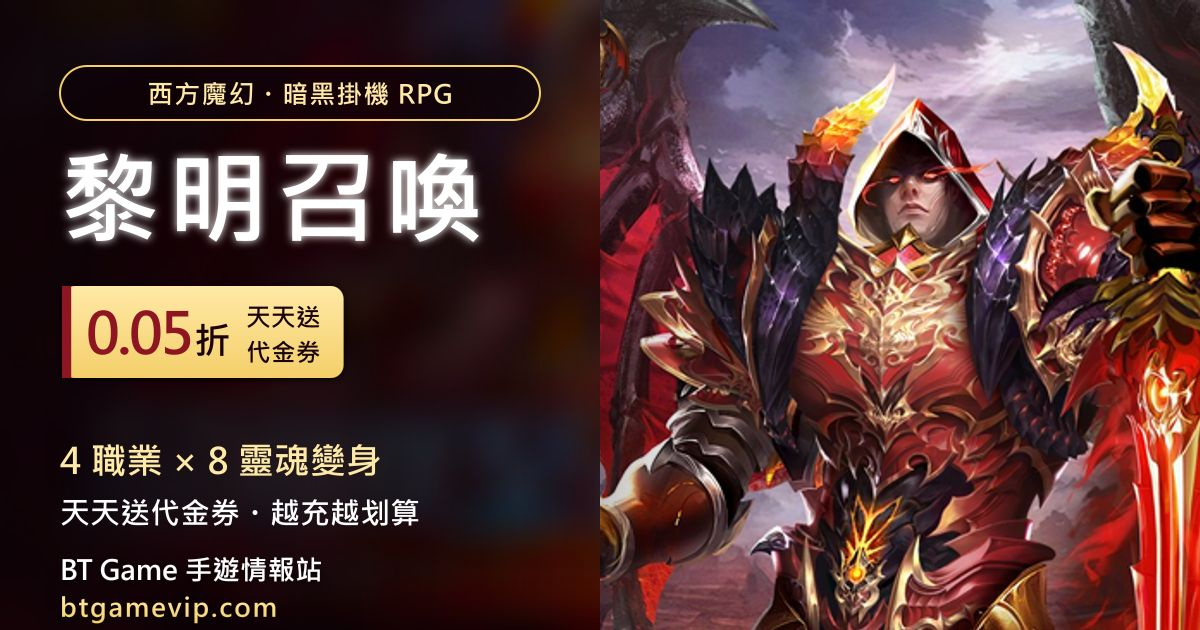
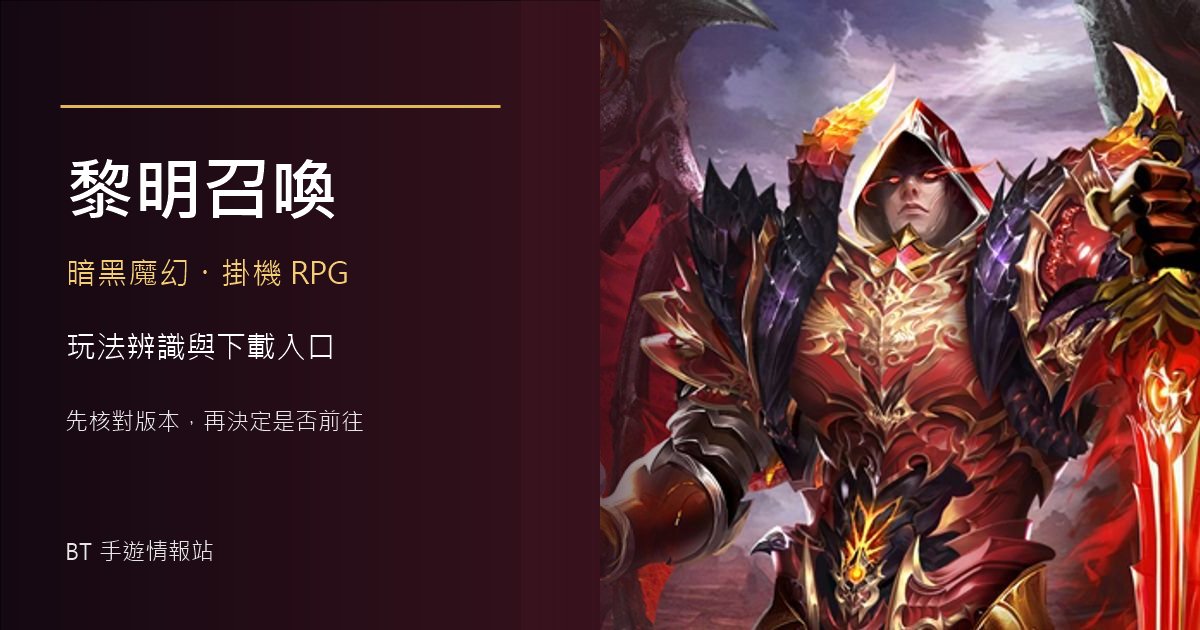
fix(game): clarify Liming Zhaohuan page

diff --git a/games/liming-zhaohuan/index.html b/games/liming-zhaohuan/index.html
@@ -4,9 +4,9 @@
   <meta charset="UTF-8">
   <meta name="viewport" content="width=device-width, initial-scale=1.0">
 
-  <title>黎明召喚儲值下載｜0.05 折天天送抵用券・4 職業 8 靈魂變身暗黑掛機 RPG｜BT 手遊情報站｜台灣手遊儲值攻略與下載入口</title>
-  <meta name="description" content="《黎明召喚》西方魔幻暗黑掛機 RPG：4 大職業 ×8 種靈魂變身，3D 引擎爆燃打擊感；全服儲值 0.05 折並天天回饋 100% 抵用券，越充越划算。BT Game 專屬渠道下載更省。">
-  <meta name="keywords" content="黎明召喚儲值, 黎明召喚下載, 黎明召喚0.05折, 黎明召喚抵用券, 黎明召喚折扣, 黎明召喚職業, 黎明召喚靈魂變身, 黎明召喚掛機RPG">
+  <title>黎明召喚下載與玩法辨識｜暗黑魔幻掛機 RPG｜BT 手遊情報站｜台灣手遊儲值攻略與下載入口</title>
+  <meta name="description" content="別先被同名遊戲帶錯路：這頁整理暗黑魔幻掛機 RPG《黎明召喚》的玩法定位、版本核對方法、下載入口與儲值前安全檢查；先確認是你要找的版本，再決定是否前往。">
+  <meta name="keywords" content="黎明召喚下載, 黎明召喚手遊, 黎明召喚玩法, 黎明召喚掛機RPG">
   <meta name="robots" content="index,follow,max-image-preview:large">
   <link rel="canonical" href="https://btgamevip.com/games/liming-zhaohuan/">
 
@@ -16,15 +16,15 @@
   <meta property="og:type" content="website">
   <meta property="og:site_name" content="BT 手遊情報站｜台灣手遊儲值攻略與下載入口">
   <meta property="og:locale" content="zh_TW">
-  <meta property="og:title" content="黎明召喚儲值下載｜0.05 折天天送抵用券・4 職業 8 靈魂變身暗黑掛機 RPG">
-  <meta property="og:description" content="西方魔幻暗黑掛機 RPG，4 職業 ×8 靈魂變身，全服儲值 0.05 折並天天回饋 100% 抵用券。BT Game 專屬渠道下載更省。">
+  <meta property="og:title" content="黎明召喚下載與玩法辨識｜暗黑魔幻掛機 RPG">
+  <meta property="og:description" content="先分辨同名遊戲，再核對暗黑魔幻掛機 RPG《黎明召喚》的玩法與下載入口。">
   <meta property="og:url" content="https://btgamevip.com/games/liming-zhaohuan/">
   <meta property="og:image" content="https://btgamevip.com/assets/img/games/liming-zhaohuan/liming-zhaohuan-og-1200x630.png">
   <meta property="og:image:width" content="1200">
   <meta property="og:image:height" content="630">
   <meta name="twitter:card" content="summary_large_image">
-  <meta name="twitter:title" content="黎明召喚儲值下載｜0.05 折天天送抵用券暗黑掛機 RPG">
-  <meta name="twitter:description" content="4 職業 8 靈魂變身，全服 0.05 折天天送 100% 抵用券，越充越划算。">
+  <meta name="twitter:title" content="黎明召喚下載與玩法辨識｜暗黑魔幻掛機 RPG">
+  <meta name="twitter:description" content="先分辨同名遊戲，再核對《黎明召喚》的玩法、版本與下載入口。">
   <meta name="twitter:image" content="https://btgamevip.com/assets/img/games/liming-zhaohuan/liming-zhaohuan-og-1200x630.png">
 
   <link rel="preconnect" href="https://qd.u2game99.com" crossorigin>
@@ -45,20 +45,16 @@
   })();
   </script>
 
-  <!-- STRUCTURED DATA -->
   <script type="application/ld+json">
   {
     "@context": "https://schema.org",
     "@type": ["VideoGame", "SoftwareApplication"],
-    "name": "黎明召喚（0.05 折天天送抵用券）",
+    "name": "黎明召喚",
     "url": "https://btgamevip.com/games/liming-zhaohuan/",
     "inLanguage": "zh-Hant",
-    "description": "西方魔幻暗黑掛機 RPG，4 職業 8 靈魂變身，全服儲值 0.05 折並天天回饋 100% 抵用券。",
+    "description": "暗黑魔幻掛機 RPG 的玩法辨識與下載入口。",
     "applicationCategory": "GameApplication",
-    "genre": ["MMORPG","暗黑","掛機","魔幻"],
-    "operatingSystem": "Android, iOS",
-    "gamePlatform": ["Android","iOS"],
-    "playMode": "MultiPlayer",
+    "genre": ["RPG","暗黑","掛機","魔幻"],
     "publisher": { "@type": "Organization", "name": "U2game", "url": "https://btgamevip.com/" }
   }
   </script>
@@ -77,7 +73,7 @@
   {
     "@context": "https://schema.org",
     "@type": "FAQPage",
-    "mainEntity": [{"@type":"Question","name":"黎明召喚和黎明覺醒是同一款嗎？","acceptedAnswer":{"@type":"Answer","text":"不是。《黎明召喚》是西方魔幻暗黑掛機 RPG（4 職業 8 靈魂變身、0.05 折天天送抵用券），與網易的《黎明覺醒》為完全不同的遊戲，請認明本頁 CTA 下載連結（gid=2327）。"}},{"@type":"Question","name":"0.05 折怎麼算？天天送抵用券是什麼？","acceptedAnswer":{"@type":"Answer","text":"全服儲值以 0.05 折計，且每日回饋 100% 抵用券可用於後續消費，等於越充越划算。實際檔位與抵用券發放以遊戲內儲值介面公告為準。"}},{"@type":"Question","name":"黎明召喚在哪裡下載？","acceptedAnswer":{"@type":"Answer","text":"透過 BT Game 專屬渠道連結（帶 ag=da00467&gid=2327）下載《黎明召喚》，安卓 / iOS 皆可，建議從本頁 CTA 進入以套用 0.05 折與抵用券回饋。"}},{"@type":"Question","name":"黎明召喚有哪些職業？靈魂變身怎麼解鎖？","acceptedAnswer":{"@type":"Answer","text":"共四大基礎職業，每個職業可再解鎖兩種靈魂變身，合計 8 種型態；隨等級與養成進度開放，可依玩法自由搭配。"}},{"@type":"Question","name":"支援掛機嗎？零課能追進度嗎？","acceptedAnswer":{"@type":"Answer","text":"支援掛機自動戰鬥。搭配 0.05 折＋天天送抵用券，平民與零課玩家也能穩定追戰力，再靠 BOSS 掉落補養成資源。"}}]
+    "mainEntity": [{"@type":"Question","name":"如何分辨同名《黎明召喚》？","acceptedAnswer":{"@type":"Answer","text":"本頁整理的是暗黑魔幻掛機 RPG《黎明召喚》。先核對遊戲名稱、類型與入口頁標示，再決定是否下載。"}},{"@type":"Question","name":"黎明召喚在哪裡下載？","acceptedAnswer":{"@type":"Answer","text":"使用本頁的「查看下載入口」按鈕或掃描 QR Code 前往。下載前請再次核對遊戲名稱與版本。"}},{"@type":"Question","name":"這款黎明召喚是什麼玩法？","acceptedAnswer":{"@type":"Answer","text":"目前可回讀的公開遊戲詳情將它描述為暗黑魔幻 RPG，並提到掛機玩法與 3D 畫面；活動與實際內容請以入口頁當下標示為準。"}},{"@type":"Question","name":"下載或儲值前要檢查什麼？","acceptedAnswer":{"@type":"Answer","text":"先核對遊戲名稱、版本、品項與金額，不交出帳號密碼，並保留訂單與付款紀錄。更多步驟可查看本站的儲值安全檢查。"}}]
   }
   </script>
 
@@ -89,8 +85,6 @@
     .mobile-header { text-align:center; padding:28px 16px 12px; }
     .mobile-header h1 { font-size:22px; line-height:1.35; }
     .mobile-header p { font-size:16px; opacity:.92; margin-top:10px; line-height:1.6; }
-    .price-hook { text-align:center; font-size:19px; font-weight:bold; background:rgba(0,0,0,.3); border-radius:12px; padding:14px; margin:16px 0; }
-    .price-hook span { color:#ffd54d; font-size:1.25em; }
     .cta-row { display:flex; flex-direction:column; gap:14px; margin:22px 0; }
     .big-btn { display:flex; align-items:center; justify-content:center; gap:8px; width:100%; padding:16px; font-size:21px; font-weight:bold; border:none; border-radius:14px; cursor:pointer; text-decoration:none; color:#fff; }
     .big-btn:focus-visible { outline:3px solid #fff; outline-offset:3px; }
@@ -99,6 +93,8 @@
     .qr-box { text-align:center; background:rgba(255,255,255,.12); border-radius:16px; padding:20px; margin:24px 0; }
     .qr-box img { width:200px; height:200px; background:#fff; border-radius:8px; }
     .qr-box p { margin-top:12px; font-size:16px; }
+    .safety-link { text-align:center; line-height:1.6; margin:-4px 0 20px; }
+    .safety-link a { text-decoration:underline; }
     .seo-section { background:#fff; color:#333; border-radius:16px; padding:20px; margin:20px 0; }
     .seo-section h2 { font-size:20px; color:#6a3093; border-left:5px solid #a044ff; padding-left:10px; margin-bottom:14px; }
     .seo-section p, .seo-section li { font-size:15px; line-height:1.75; }
@@ -122,75 +118,70 @@
     </nav>
 
     <header class="mobile-header">
-      <h1>黎明召喚｜0.05 折天天送抵用券・4 職業 8 靈魂變身暗黑掛機 RPG</h1>
-      <p>西方魔幻暗黑掛機 RPG，4 大職業 × 8 種靈魂變身自由搭配，3D 引擎爆燃打擊感。全服儲值享 0.05 折，並天天回饋 100% 抵用券（也寫作「代金券」），越充越划算——透過 BT Game 專屬渠道下載開玩。</p>
+      <h1>黎明召喚下載與玩法辨識｜暗黑魔幻掛機 RPG</h1>
+      <p>別先被同名遊戲帶錯路：這頁整理的是暗黑魔幻掛機 RPG《黎明召喚》，先核對玩法與版本，再決定是否前往下載入口。</p>
     </header>
 
-    <div class="price-hook">全服 0.05 折<br><span>天天送 100% 抵用券，越充越划算</span></div>
-
     <div class="cta-row">
-      <a id="dl-android" class="big-btn android-btn" href="https://qd.u2game99.com/down.html?ag=da00467&gid=2327&utm_source=landing&utm_medium=referral&utm_campaign=liming_zhaohuan_landing_202607&utm_content=hero-cta&utm_term=liming"
-         data-platform="android" rel="nofollow sponsored"
-         aria-label="Android 立即下載 黎明召喚">Android 立即下載</a>
-      <a id="dl-ios" class="big-btn ios-btn" href="https://qd.u2game99.com/down.html?ag=da00467&gid=2327&utm_source=landing&utm_medium=referral&utm_campaign=liming_zhaohuan_landing_202607&utm_content=hero-cta&utm_term=liming"
-         data-platform="ios" rel="nofollow sponsored" target="_blank"
-         aria-label="iOS 立即下載 黎明召喚">iOS 立即下載</a>
+      <a id="dl-download" class="big-btn android-btn" href="https://qd.u2game99.com/down.html?ag=da00467&gid=2327&utm_source=landing&utm_medium=referral&utm_campaign=liming_zhaohuan_landing_202607&utm_content=hero-cta&utm_term=liming"
+         data-platform="download" rel="nofollow sponsored"
+         aria-label="查看黎明召喚下載入口">查看下載入口</a>
     </div>
+    <p class="safety-link">準備下載或儲值前，先看<a href="/save/safety/">儲值安全檢查</a>。</p>
 
     <div class="qr-box">
       <img id="qr" alt="掃碼下載 黎明召喚" width="200" height="200">
-      <p>掃碼直接下載，0.05 折天天送抵用券</p>
+      <p>掃碼查看下載入口</p>
     </div>
 
     <section class="seo-section">
       <h2>黎明召喚 遊戲介紹</h2>
-      <p>《黎明召喚》是一款西方魔幻暗黑掛機 RPG，3D 引擎打造爆燃打擊感。四大基礎職業，每職業再解鎖兩種靈魂變身，合計 8 種型態自由搭配 Build；支援掛機自動戰鬥，上班上課掛著也能追進度。XR 幻化 4 件套、8888 大禮包、聖印系統，晶石冰原 / 厄運迴廊等高階副本，加上多階世界 BOSS 輪番登場，養成內容豐富。全服儲值享 0.05 折，並天天回饋 100% 抵用券，越充越划算——透過 BT Game 專屬渠道下載開玩。</p>
+      <p>《黎明召喚》是一款暗黑魔幻掛機 RPG。目前可回讀的公開遊戲詳情提到 3D 畫面與掛機玩法；本頁據此整理辨識與下載步驟。版本、活動與實際內容可能變動，前往入口後請再核對頁面標示。</p>
+      <p><strong>資料核對：</strong><a href="https://h5.swjoy.com/front/gamecenter/m/game/detail/?gameId=7072" style="color:#1b57c4;text-decoration:underline;">本頁遊戲的公開詳情</a>支持暗黑魔幻、RPG、掛機與 3D 描述；另有<a href="https://gnn.gamer.com.tw/detail.php?sn=184369" style="color:#1b57c4;text-decoration:underline;">同名卡牌遊戲的公開報導</a>可供辨識。兩者不是同一個玩法版本。</p>
     </section>
 
     <section class="seo-section points">
       <h2>黎明召喚 特色亮點</h2>
       <ul>
-        <li><strong>0.05 折・天天送抵用券：</strong>全服儲值享 0.05 折，並天天回饋 100% 抵用券，花小錢也能快速養滿戰力。</li>
-        <li><strong>4 職業 × 8 靈魂變身：</strong>四大基礎職業，每職業再解鎖兩種靈魂變身，共 8 種型態自由搭配 Build。</li>
-        <li><strong>3D 爆燃暗黑掛機：</strong>3D 引擎打擊感十足，支援掛機自動戰鬥，上班上課掛著也能追進度。</li>
-        <li><strong>海量養成內容：</strong>XR 幻化 4 件套、8888 大禮包、聖印系統，晶石冰原 / 厄運迴廊高階副本等你挑戰。</li>
-        <li><strong>多階 BOSS 狂掉獎勵：</strong>多階世界 BOSS 輪番登場，擊殺爆出豐厚裝備與養成資源。</li>
+        <li><strong>先分辨同名遊戲：</strong>本頁整理的是暗黑魔幻掛機 RPG，不是公開報導中的同名卡牌遊戲。</li>
+        <li><strong>玩法定位：</strong>公開資料將它描述為西方魔幻 RPG，並提到掛機玩法。</li>
+        <li><strong>畫面資訊：</strong>公開遊戲資料提到 3D 畫面；實際效果請以目前版本為準。</li>
+        <li><strong>入口前再核對：</strong>遊戲活動與版本內容可能調整，下載前先確認入口頁當下資訊。</li>
       </ul>
     </section>
 
     <section class="seo-section">
-      <h2>怎麼用 BT Game 下載 黎明召喚？</h2>
+      <h2>怎麼查看黎明召喚下載入口？</h2>
       <ul>
-        <li>點擊上方 <strong>Android / iOS 立即下載</strong>，或用手機掃描 QR Code。</li>
-        <li>安裝完成後於遊戲內儲值，即享 <strong>0.05 折</strong> 並天天回饋 100% 抵用券。</li>
-        <li>透過本頁渠道連結（ag=da00467&gid=2327）下載並儲值，福利秒到帳、安全穩定。</li>
+        <li>先確認你要找的是暗黑魔幻掛機 RPG《黎明召喚》。</li>
+        <li>點擊上方<strong>查看下載入口</strong>，或用手機掃描 QR Code。</li>
+        <li>前往後再次核對遊戲名稱與版本；付款前可先閱讀<a href="/save/safety/" style="color:#1b57c4;text-decoration:underline;">儲值安全檢查</a>。</li>
       </ul>
     </section>
 
     <section class="seo-section faq">
       <h2>常見問題</h2>
       <dl>
-        <dt>黎明召喚和黎明覺醒是同一款嗎？</dt><dd>不是。《黎明召喚》是西方魔幻暗黑掛機 RPG（4 職業 8 靈魂變身、0.05 折天天送抵用券），與網易的《黎明覺醒》為完全不同的遊戲，請認明本頁 CTA 下載連結（gid=2327）。</dd>
-        <dt>0.05 折怎麼算？天天送抵用券是什麼？</dt><dd>全服儲值以 0.05 折計，且每日回饋 100% 抵用券可用於後續消費，等於越充越划算。實際檔位與抵用券發放以遊戲內儲值介面公告為準。</dd>
-        <dt>黎明召喚在哪裡下載？</dt><dd>透過 BT Game 專屬渠道連結（帶 ag=da00467&gid=2327）下載《黎明召喚》，安卓 / iOS 皆可，建議從本頁 CTA 進入以套用 0.05 折與抵用券回饋。</dd>
-        <dt>黎明召喚有哪些職業？靈魂變身怎麼解鎖？</dt><dd>共四大基礎職業，每個職業可再解鎖兩種靈魂變身，合計 8 種型態；隨等級與養成進度開放，可依玩法自由搭配。</dd>
-        <dt>支援掛機嗎？零課能追進度嗎？</dt><dd>支援掛機自動戰鬥。搭配 0.05 折＋天天送抵用券，平民與零課玩家也能穩定追戰力，再靠 BOSS 掉落補養成資源。</dd>
+        <dt>如何分辨同名《黎明召喚》？</dt><dd>本頁整理的是暗黑魔幻掛機 RPG《黎明召喚》。先核對遊戲名稱、類型與入口頁標示，再決定是否下載。</dd>
+        <dt>黎明召喚在哪裡下載？</dt><dd>使用本頁的「查看下載入口」按鈕或掃描 QR Code 前往。下載前請再次核對遊戲名稱與版本。</dd>
+        <dt>這款黎明召喚是什麼玩法？</dt><dd>目前可回讀的公開遊戲詳情將它描述為暗黑魔幻 RPG，並提到掛機玩法與 3D 畫面；活動與實際內容請以入口頁當下標示為準。</dd>
+        <dt>下載或儲值前要檢查什麼？</dt><dd>先核對遊戲名稱、版本、品項與金額，不交出帳號密碼，並保留訂單與付款紀錄。更多步驟可查看本站的<a href="/save/safety/" style="color:#1b57c4;text-decoration:underline;">儲值安全檢查</a>。</dd>
       </dl>
     </section>
 
     <section class="seo-section" id="further-reading">
       <h2>延伸閱讀</h2>
       <ul>
-        <li><a href="https://btgamevip.com/u2game/" style="color:#1b57c4;text-decoration:underline;">U2game 平台總覽</a>——本頁的下載入口來自 U2game，這頁一次講清楚它是什麼、折扣怎麼自動生效、安不安全。</li>
-        <li><a href="https://btgamevip.com/save/guide/" style="color:#1b57c4;text-decoration:underline;">手遊怎麼儲最省？三步驟教學</a>——首儲一次充到門檻怎麼吃滿加碼、什麼時候儲最划算，順序講在這篇。</li>
+        <li><a href="https://btgamevip.com/u2game/" style="color:#1b57c4;text-decoration:underline;">U2game 平台總覽</a>——先了解平台定位、下載入口與使用前要核對的資訊。</li>
+        <li><a href="https://btgamevip.com/save/guide/" style="color:#1b57c4;text-decoration:underline;">手遊儲值步驟</a>——付款前先核對遊戲、品項與訂單資訊。</li>
+        <li><a href="https://btgamevip.com/save/safety/" style="color:#1b57c4;text-decoration:underline;">儲值安全檢查</a>——整理帳號、金額與付款紀錄的檢查步驟。</li>
       </ul>
     </section>
 
     <footer>
-    <p>© BT 手遊情報站｜台灣手遊儲值攻略與下載入口</p>btgamevip.com　|　本頁為 黎明召喚 下載與優惠導引頁</footer>
+    <p>© BT 手遊情報站｜台灣手遊儲值攻略與下載入口</p>btgamevip.com　|　本頁為黎明召喚下載與玩法辨識頁</footer>
   </div>
 
-  <!-- ATTRIBUTION + QR (no jQuery) -->
   <script>
   (function () {
     var GAME_SLUG = "liming_zhaohuan";
@@ -240,7 +231,7 @@
       };
       if (typeof window.gtag === "function") { window.gtag("event", "download_click", payload); }
     }
-    ["dl-android", "dl-ios"].forEach(function (id) {
+    ["dl-download"].forEach(function (id) {
       var el = document.getElementById(id);
       if (el) el.addEventListener("click", function () { trackDownload(el.getAttribute("data-platform")); });
     });
